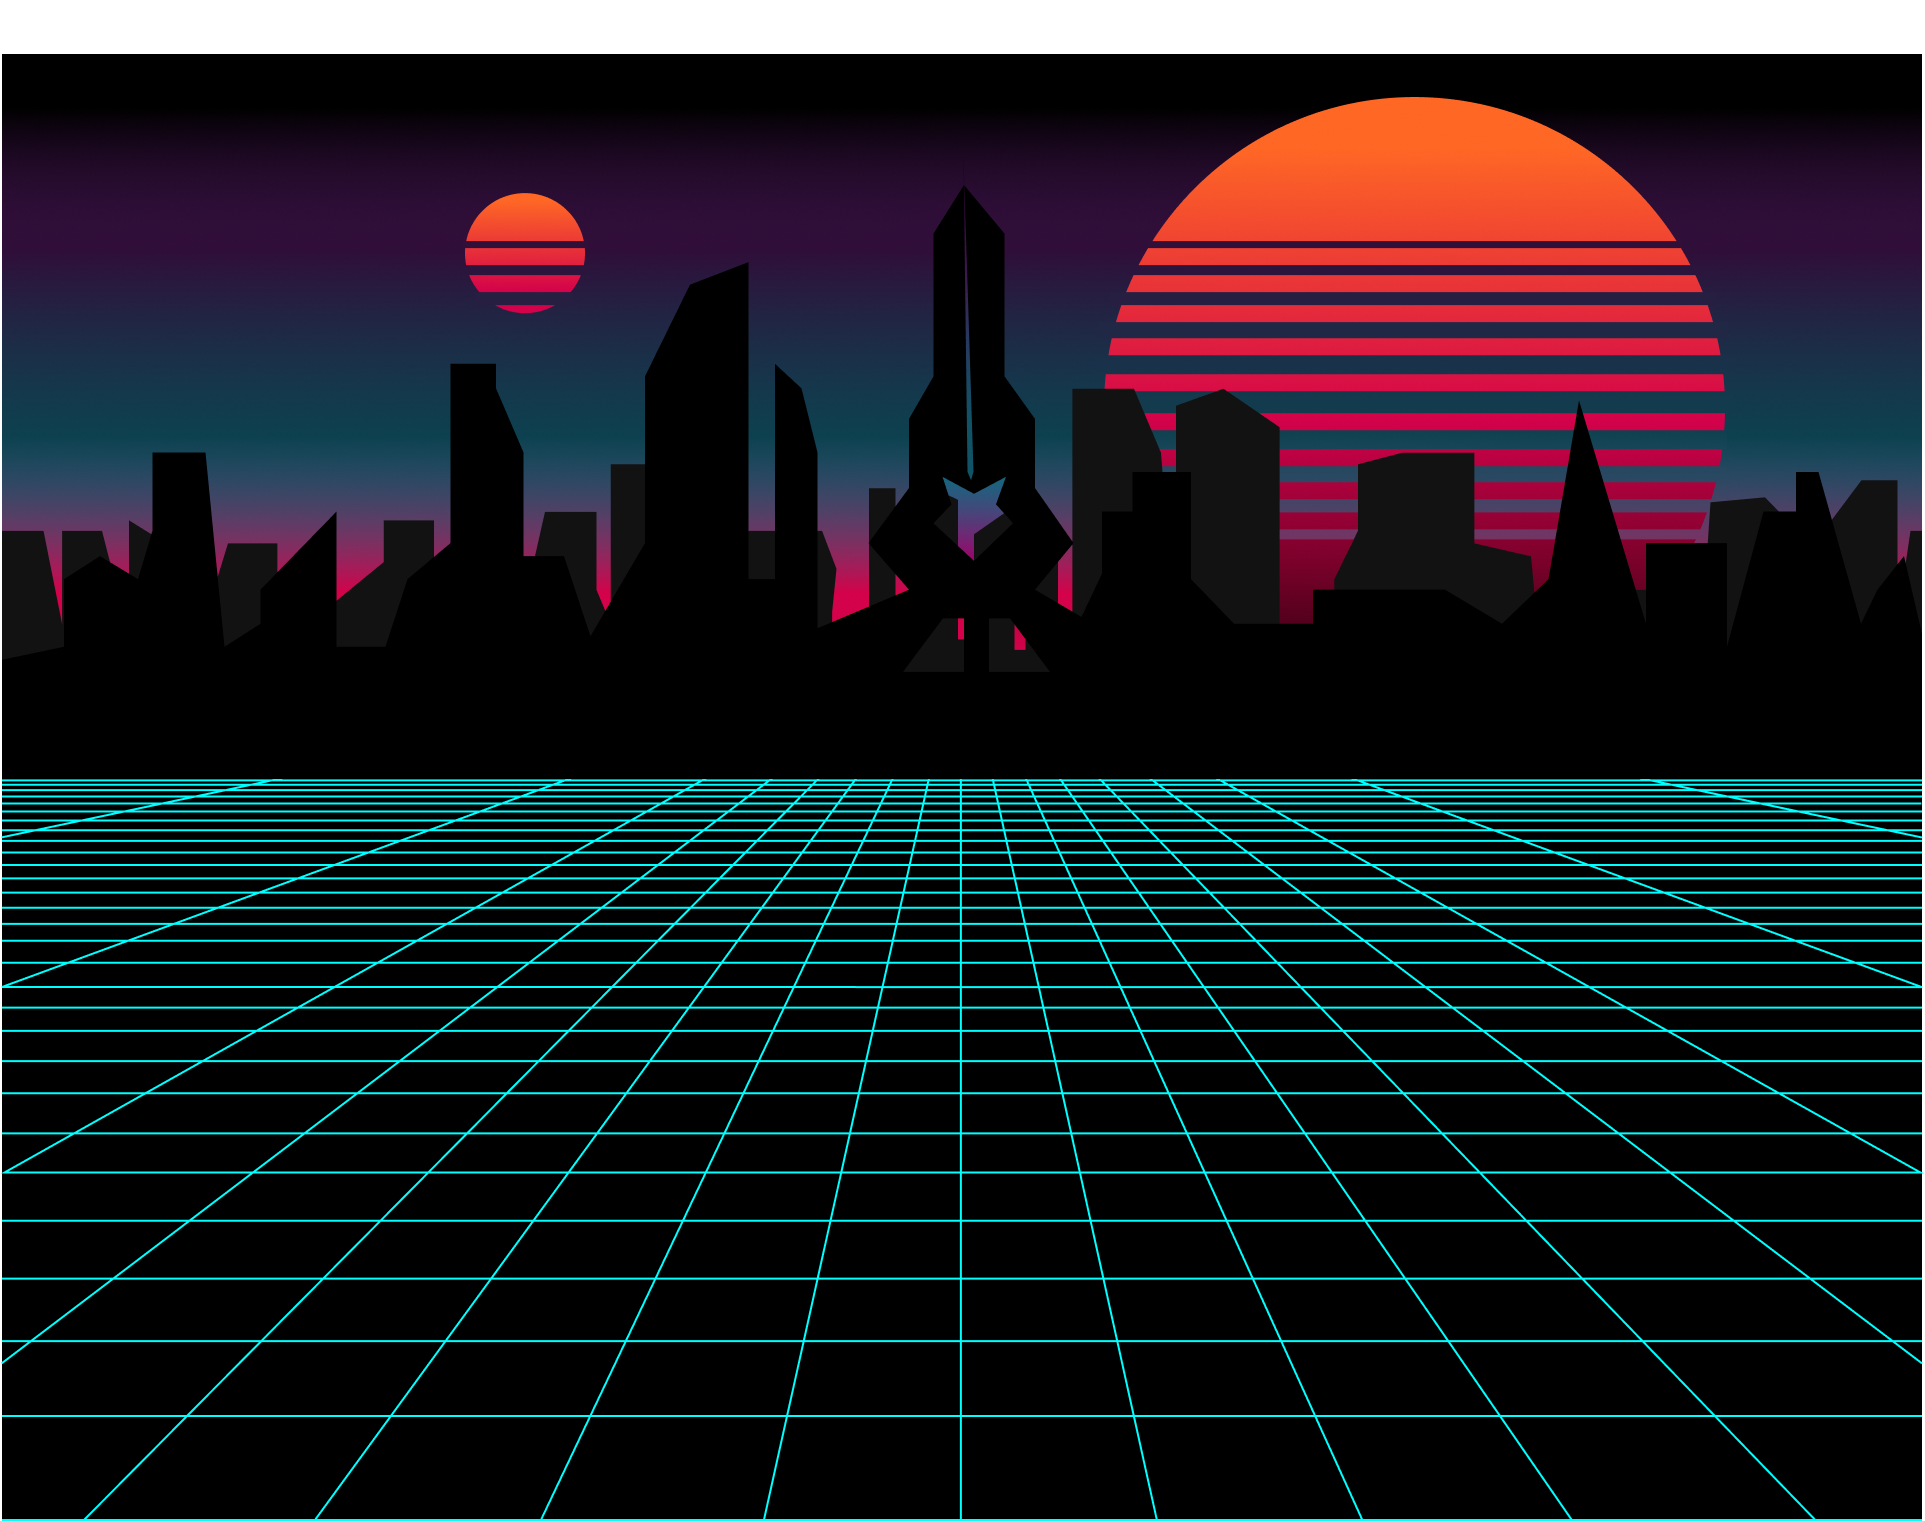
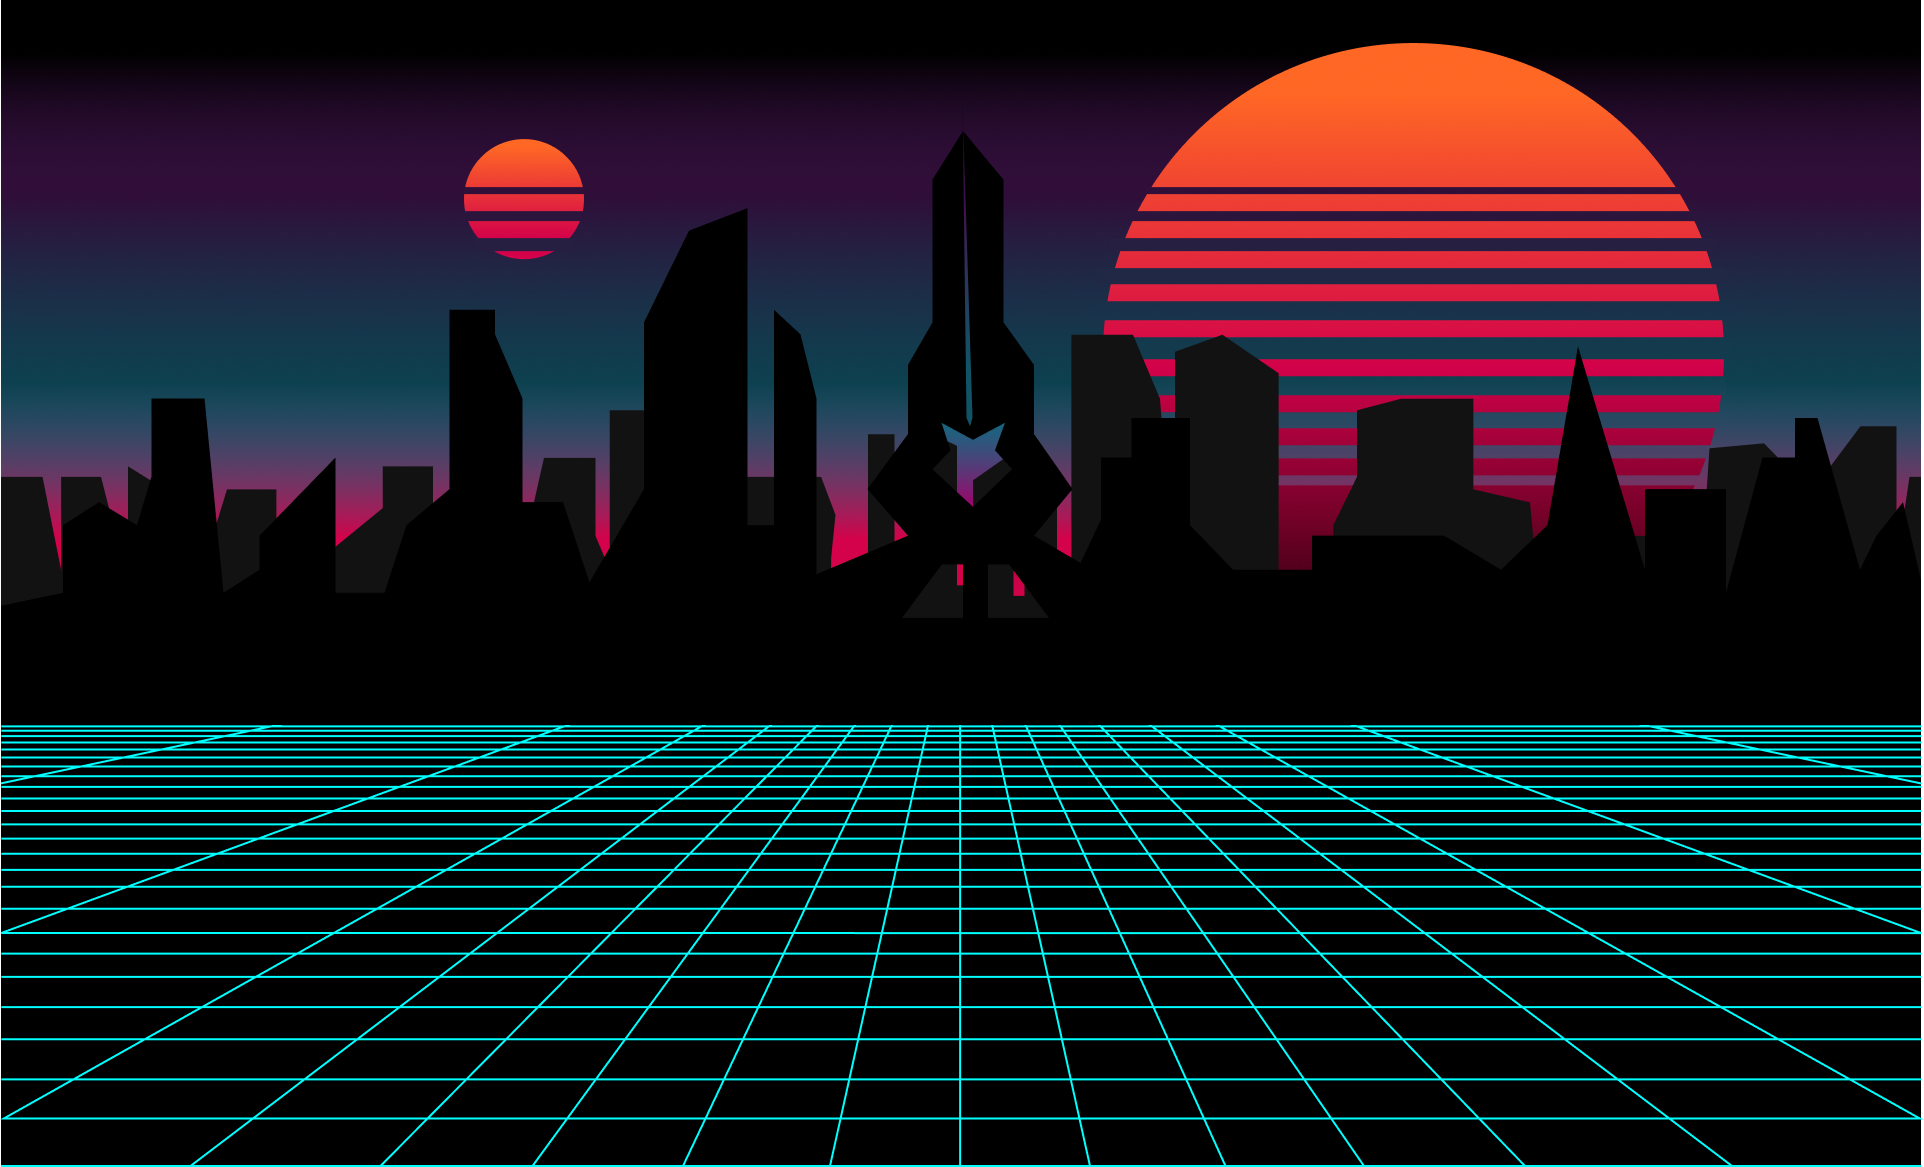
added timeout to remove validation error or success message for changing name. updated city landscape grid. updated portrait png. css changes for aboutme section. changed lat and long for map to be Dallas.

diff --git a/src/App.js b/src/App.js
@@ -63,20 +63,20 @@ class App extends Component {
     let newNameLower = this.state.newName.trim().toLowerCase();
     if (newNameLower === "") {
       this.setState({ isItinvalid: true })
+      setTimeout(() => this.setState({ isItinvalid: false }), 2000)
     } else {
       let newNameUpper = newNameLower.charAt(0).toUpperCase() + newNameLower.substring(1);
-      console.log("New Name requested is: " + newNameUpper);
       // Save the new user name to local storage
       localStorage.setItem("userName", newNameUpper);
       // Set the new states to display instant change
       this.setState({ userNameIs: newNameUpper, newName: "", isItinvalid: false, nameWasChangedSuccessfully: true })
+      setTimeout(() => this.setState({ nameWasChangedSuccessfully: false }), 2000)
     }
   }
 
   newUserNameBoxChange = event => {
     let { name, value } = event.target;
     this.setState({ [name]: value, isItinvalid: false, nameWasChangedSuccessfully: false })
-    console.log(event.target.value);
   }
 
   render() {

diff --git a/src/components/GoogleMapWithMarker/index.jsx b/src/components/GoogleMapWithMarker/index.jsx
@@ -24,13 +24,13 @@ const GoogleMapWithMarker = withScriptjs(withGoogleMap(props => (
         <Marker
             icon={{ url: mapMarker }}
             position={{
-                lat: 32.814000,
-                lng: -96.948900
+                lat: 32.776700,
+                lng: -96.797000
             }}
             onClick={(message, lang, lat) => props.handleMarkerClick(
-                "Currently based out of Irving, Texas",
-                32.814000,
-                -96.948900
+                "Currently based out of Dallas, Texas",
+                32.776700,
+                -96.797000
             )}
         />
         {props.isInfoboxVisible && (

diff --git a/src/components/Sidebar/index.jsx b/src/components/Sidebar/index.jsx
@@ -54,9 +54,6 @@ const Sidebar = props => {
                         if (e.key === "Enter") {
                             e.preventDefault();
                             props.enterNewName();
-                            if (props.wasSuccess === "true") {
-                                props.closeClicked();
-                            }
                         }
                     }}>
                         <FormGroup>

diff --git a/src/components/AboutMe/AboutMe.css b/src/components/AboutMe/AboutMe.css
@@ -39,8 +39,14 @@
     padding: 0 15px 0 0;
 }
 
-#selfPortrait{
-    padding: 2% 0 5% 8%;
+#portraitContainer {
+    text-align: end;
     width: 100%;
     height: 100%;
+}
+
+#selfPortrait{
+    max-width: 100%;
+    max-height: 100%;
+    border-radius: 50%;
 }
